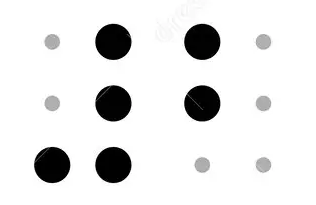
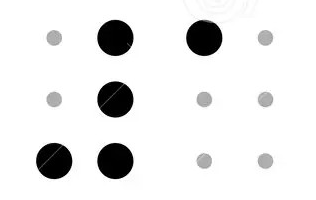
Add files via upload

diff --git a/practica/practica_4.html b/practica/practica_4.html
@@ -3,7 +3,7 @@
 <head>
     <meta charset="UTF-8">
     <meta name="viewport" content="width=device-width, initial-scale=1.0">
-    <title>Práctica - Número 4</title>
+    <title>Práctica - Número 5</title>
     <style>
         body { font-family: 'Arial', sans-serif; background-color: #fff9c4; text-align: center; padding: 30px; }
         .contenedor-imagenes { display: flex; justify-content: center; gap: 50px; margin: 40px 0; }
@@ -43,7 +43,7 @@
             hablar("Siguiente", function() {
                 // Cambiar hacia dónde va: practica_2.html, practica_3.html... 
                 // En la práctica 5 será "../ejercicios/Ejercicio_1.html"
-                window.location.href = "practica_5.html"; 
+                window.location.href = "practica_5.html";  
             });
         }
     </script>

diff --git a/bienvenida.html b/bienvenida.html
@@ -19,7 +19,7 @@ body{
     padding:40px;
     border-radius:15px;
     text-align:center;
-    box-shadow:0 8px 25px rgba(251, 138, 183, 0);
+    box-shadow:0 8px 25px rgba(0,0,0,0.2);
 }
 
 img{
@@ -127,7 +127,7 @@ button:hover{
 
     // botón
     function irJuego(){
-        window.location.href = "practica.html"; // cambia por tu archivo real
+        window.location.href = "../practica/comenzar_practica1.html"; // cambia por tu archivo real
     }
     </script>
 
